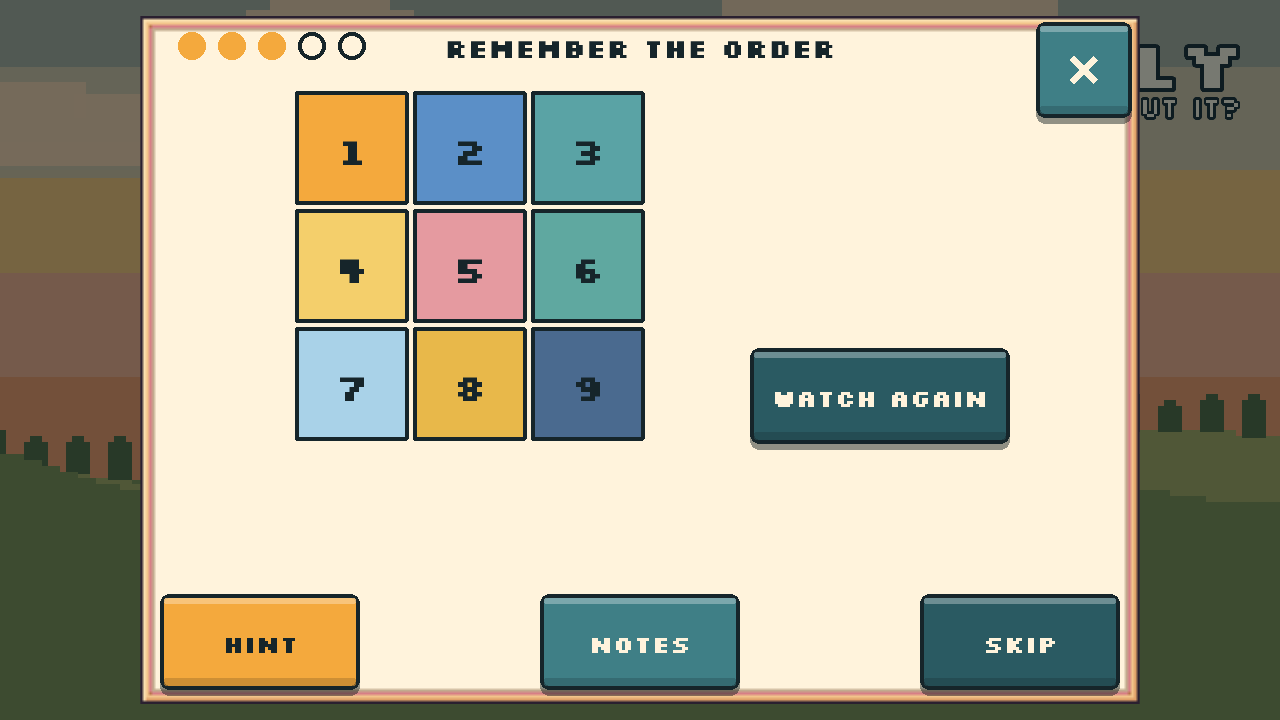
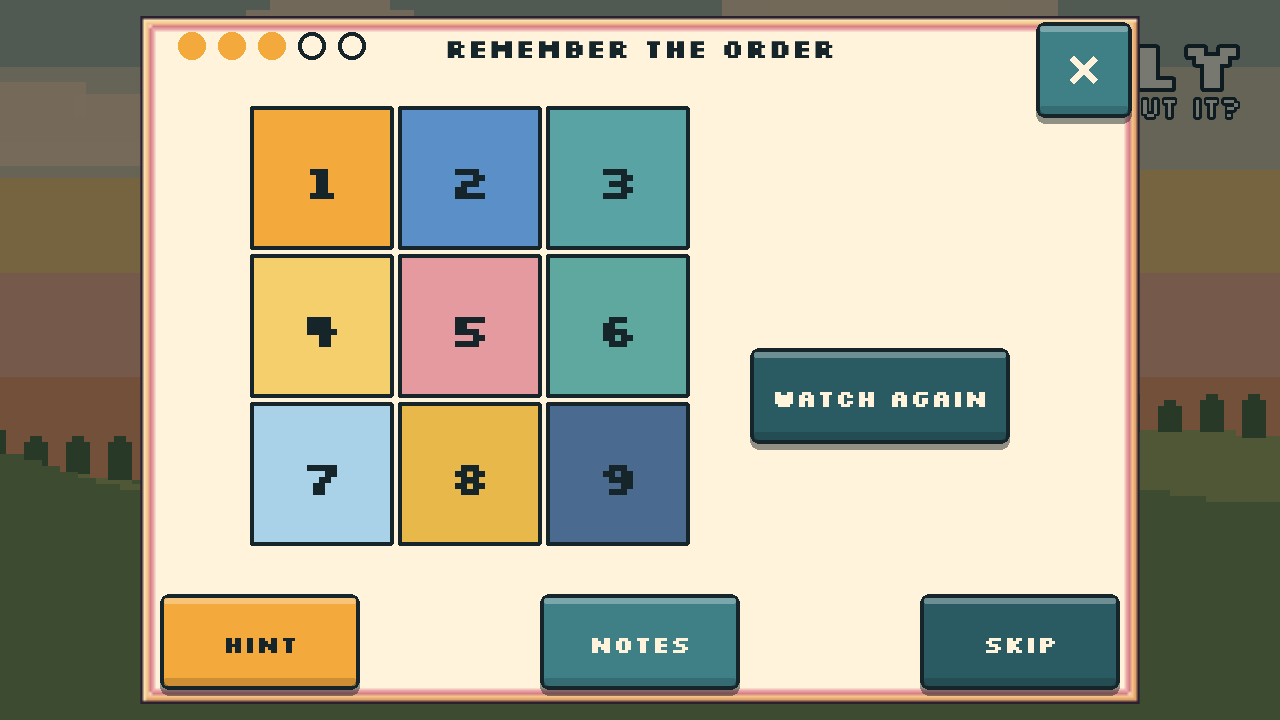
AI-7: Slide and Memory grids larger (140 px) and clear of the side column

diff --git a/src/puzzles/SlideScene.ts b/src/puzzles/SlideScene.ts
@@ -6,7 +6,7 @@ import { sfx } from '../audio/sfx';
 import { PAL, makeButton, makeText } from './ui';
 import { PuzzleShell, PX, PY } from './PuzzleShell';
 
-const CELL = 96;
+const CELL = 140;
 const GAP = 6;
 const N = 3;
 
@@ -33,13 +33,13 @@ export class SlideScene extends PuzzleShell {
     this.spec = spec;
     this.cells = [];
     const size = N * CELL + (N - 1) * GAP;
-    const left = PX + 120;
-    const top = PY + 120;
+    const left = PX + 90;
+    const top = PY + 96;
     for (let i = 0; i < N * N; i++) {
       const x = left + (i % N) * (CELL + GAP) + CELL / 2;
       const y = top + Math.floor(i / N) * (CELL + GAP) + CELL / 2;
       const box = this.add.rectangle(x, y, CELL, CELL, PAL.blue).setStrokeStyle(4, PAL.panelEdge).setInteractive();
-      const label = makeText(this, x, y, '', 48, PAL.white, { bold: true, ox: 0.5, oy: 0.5 });
+      const label = makeText(this, x, y, '', 64, PAL.white, { bold: true, ox: 0.5, oy: 0.5 });
       box.on('pointerdown', () => this.tap(i));
       this.cells.push({ box, label });
     }
@@ -47,7 +47,7 @@ export class SlideScene extends PuzzleShell {
     const px = PX + 740;
     makeText(this, px, PY + 170, 'Tap a tile next to\nthe gap to slide it.', 28, PAL.ink, { ox: 0.5, oy: 0.5, align: 'center' });
     this.count = makeText(this, px, PY + 270, '', 32, PAL.ink, { bold: true, ox: 0.5, oy: 0.5, align: 'center' });
-    makeButton(this, px, PY + 380, 220, CELL, 'Reset', () => this.reset(), { fill: PAL.sageDark, size: 32 });
+    makeButton(this, px, PY + 380, 220, 96, 'Reset', () => this.reset(), { fill: PAL.sageDark, size: 32 });
     this.reset();
   }
 

diff --git a/src/puzzles/MemoryScene.ts b/src/puzzles/MemoryScene.ts
@@ -6,7 +6,7 @@ import { sfx } from '../audio/sfx';
 import { PAL, makeButton, makeText } from './ui';
 import { PuzzleShell, PX, PY } from './PuzzleShell';
 
-const PAD = 110;
+const PAD = 140;
 const GAP = 8;
 const STEP_MS = 650; // time per flashed pad during playback
 const FLASH_MS = 420;
@@ -45,12 +45,12 @@ export class MemoryScene extends PuzzleShell {
     const rows = Math.ceil(spec.pads / cols);
     const cx = PX + 330;
     const x0 = cx - (cols * (PAD + GAP) - GAP) / 2 + PAD / 2;
-    const y0 = PY + 250 - (rows * (PAD + GAP) - GAP) / 2 + PAD / 2;
+    const y0 = PY + 310 - (rows * (PAD + GAP) - GAP) / 2 + PAD / 2;
     for (let i = 0; i < spec.pads; i++) {
       const x = x0 + (i % cols) * (PAD + GAP);
       const y = y0 + Math.floor(i / cols) * (PAD + GAP);
       const box = this.add.rectangle(x, y, PAD, PAD, COLORS[i] ?? PAL.steel).setStrokeStyle(4, PAL.panelEdge).setInteractive();
-      const label = makeText(this, x, y, String(i + 1), 48, PAL.ink, { bold: true, ox: 0.5, oy: 0.5 });
+      const label = makeText(this, x, y, String(i + 1), 60, PAL.ink, { bold: true, ox: 0.5, oy: 0.5 });
       box.on('pointerdown', () => this.tap(i));
       this.pads.push({ box, label });
     }

diff --git a/docs/status/AI-7.md b/docs/status/AI-7.md
@@ -25,7 +25,7 @@
 
 ## Honest notes
 - Code and Sort have no harder variant above level 3 (Sort level 4-5 repeats the 'combo' mode). AI-2 owns that logic; I did not invent any.
-- Seen on screen: the cream wooden panel, pixel font, Hint/Notes/Skip row inside the panel and the close button are consistent across all 11, nothing overlaps at 1280x720. Word cipher key enlarged (13 -> 18 px) and spaced clear of the slots. Weakest: Slide and Memory grids small and off-centre, Mastermind history box empty and blank, close X sticks out of the panel corner,.
+- Seen on screen: the cream wooden panel, pixel font, Hint/Notes/Skip row inside the panel and the close button are consistent across all 11, nothing overlaps at 1280x720. Slide and Memory grids enlarged (tiles 96 -> 140 px, pads 110 -> 140 px). Word cipher key enlarged (13 -> 18 px) and spaced clear of the slots. Weakest: Mastermind history box empty and blank, close X sticks out of the panel corner,.
 - Text is still small: `makeText` in `src/puzzles/ui.ts` scales every size by 0.8, so body text is 14-27 px, below the 28 px target. Fixing it means re-fitting each scene's layout.
 
 ## Requests
